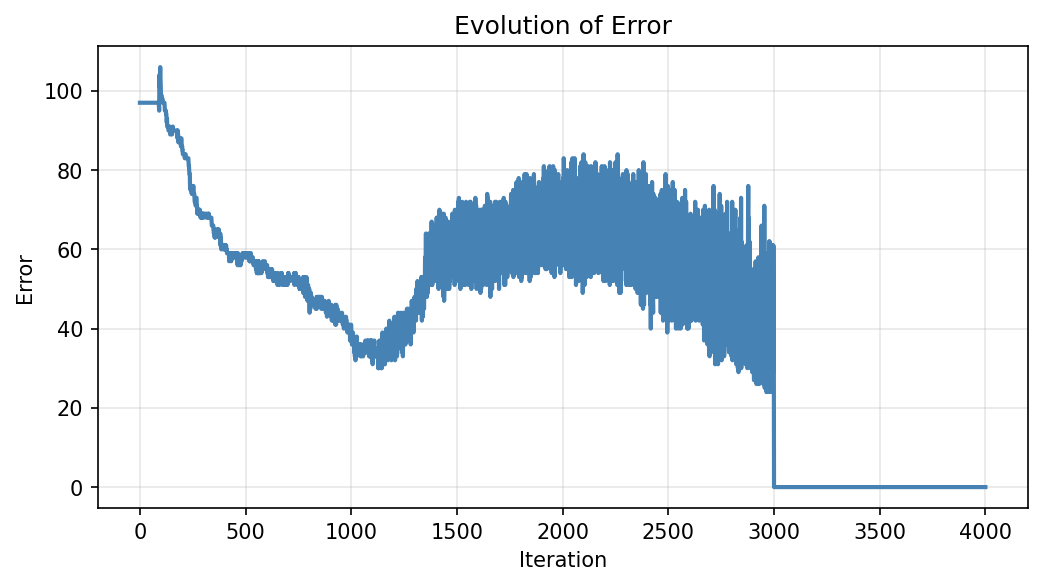
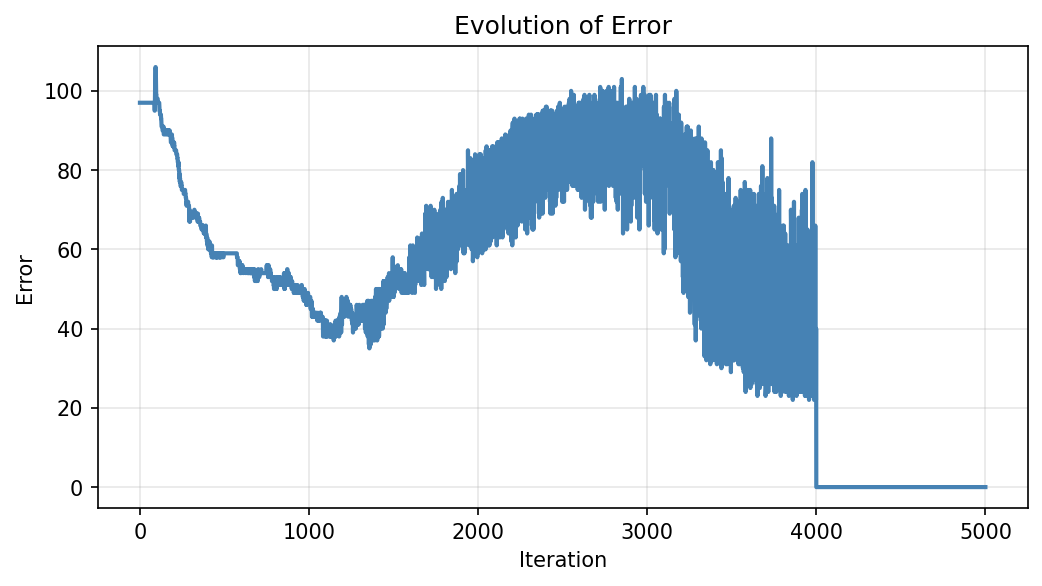
Local progress

diff --git a/TP3/tp3.py b/TP3/tp3.py
@@ -1722,6 +1722,8 @@ def minim_error_avec_recuit_test(L_ens, w, maxIter, eta,
                     # in the mu loop during the NEXT iteration.
                     pass
 
+        
+
         t_k = t_k * temp_decay_factor  
         # w = w / np.linalg.norm(w)
         iter += 1    
@@ -1735,7 +1737,9 @@ def minim_error_avec_recuit_test(L_ens, w, maxIter, eta,
         err = error(L_ens, w)
         error_history.append(err)
     
-    return w_history, temp_history, gamma_history, error_history
+    L_ens = expand_universe(L_ens, w, -delta * expansion_depth)
+
+    return w_history, temp_history, gamma_history, error_history, expansion_depth 
 
 def minim_error_temp_variable_dynamic_gammas(L, w, maxIter, eta, temp):
     X = [np.asarray(ex[0], dtype=float) for ex in L]
@@ -2096,7 +2100,8 @@ if __name__=="__main__":
 
         print("Erreur de généralisation :", E_g)
 
-
+        #L'impression du perceptron weights[-1]
+        
     if if_question_1_1:
         complete_df_prepare = pd.concat([train_df_prepare, test_df_prepare], ignore_index=True)
     
@@ -2118,7 +2123,7 @@ if __name__=="__main__":
         grad_stop_neg = -10
 
         # Unpack the two lists directly
-        weights, temps, gammas, errors = minim_error_avec_recuit_test(complete_df_prepare, w, 
+        weights, temps, gammas, errors, expansion_depth = minim_error_avec_recuit_test(complete_df_prepare, w, 
                                                          maxIter=maxIter, eta=eta,
                                                          temp=temp, temp_target=temp_target,
                                                          grad_stop_pos=grad_stop_pos,
